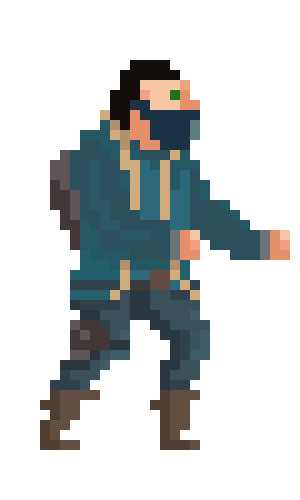
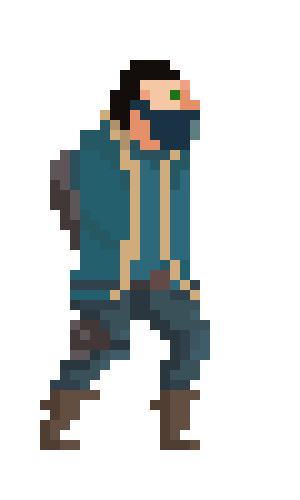
main players gun now swivles w arms

Changed region(s): [[0.39, 0.3, 0.99, 0.54]]

diff --git a/Galactic Explorers/Assets/Scripts/PlayerMovement.cs b/Galactic Explorers/Assets/Scripts/PlayerMovement.cs
@@ -5,18 +5,24 @@ using UnityEngine;
 using UnityEngine.InputSystem;
 public class PlayerMovement : MonoBehaviour
 {
-
+    
+    Vector3 lookDirection;
+    bool facingRight = true;
     private Vector2 moveInput;
     private Rigidbody2D playerRigidbody2D;
     [SerializeField] private float moveSpeed = 5f;
+
+    SpriteRenderer sprite;
     void Start()
     {
         playerRigidbody2D = GetComponent<Rigidbody2D>();
+        sprite = GetComponent<SpriteRenderer>();
     }
 
     void Update()
     {
         Run();
+        fplayer();
     }
     void OnMove(InputValue value)
     {
@@ -31,5 +37,29 @@ public class PlayerMovement : MonoBehaviour
     void Run()
     {
         playerRigidbody2D.velocity = moveInput * moveSpeed;
+    }
+   
+
+    void flip()
+    {
+        facingRight = !facingRight;
+        sprite.flipX = true;
+    }
+    void flip2(){
+        facingRight = true;
+        sprite.flipX = false;
+    }
+
+    private void fplayer()
+    {
+        lookDirection = Camera.main.ScreenToWorldPoint(Input.mousePosition);
+        if (lookDirection.x > transform.position.x && !facingRight)
+        {
+            flip2();
+        }
+        else if (lookDirection.x < transform.position.x && facingRight)
+        {
+            flip();
+        }
     }
 }

diff --git a/Galactic Explorers/Assets/Scripts/flipGun.cs b/Galactic Explorers/Assets/Scripts/flipGun.cs
@@ -6,6 +6,7 @@ public class flipGun : MonoBehaviour
 {
     Vector3 lookDirection;
     bool facingRight = true;
+ 
     void Update()
     {
         fGun();
